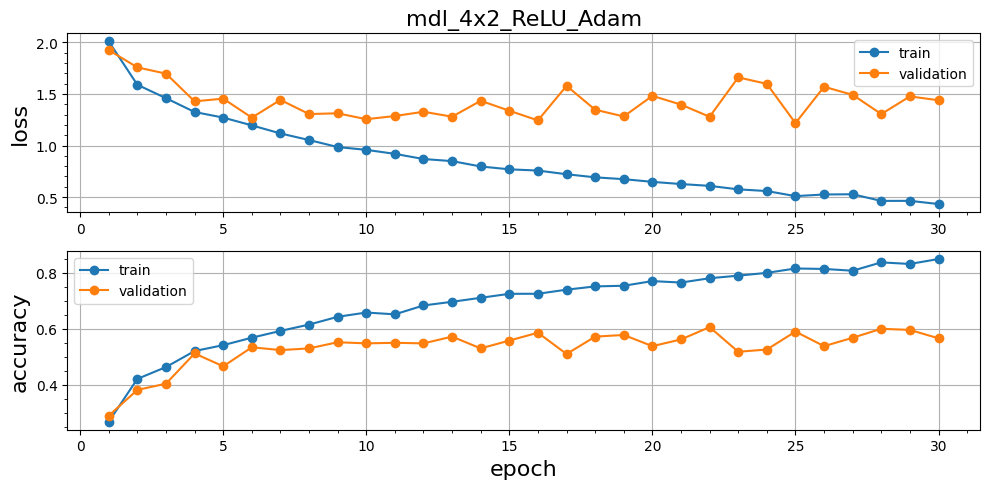
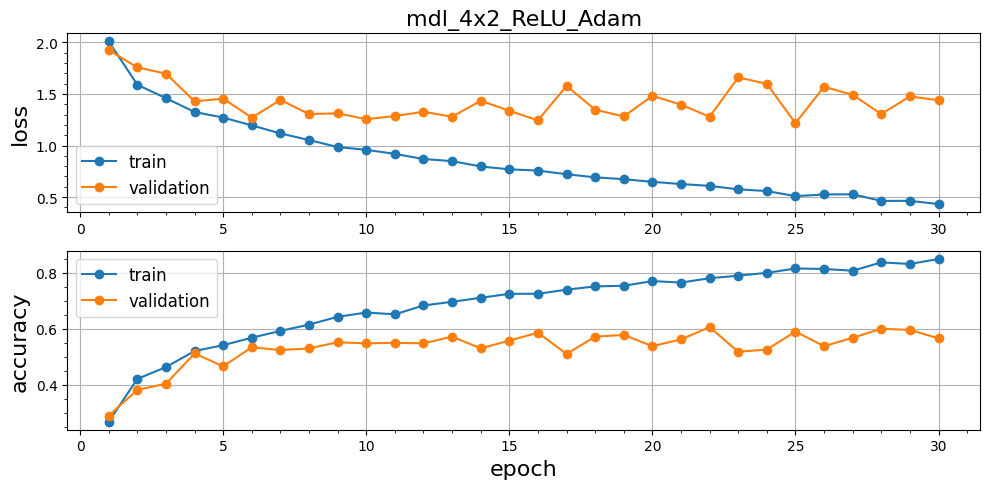
Readme update.

diff --git a/src/train.py b/src/train.py
@@ -76,18 +76,14 @@ class ResNet18Trainer(object):
     def init_model(self):
         """Initialize model and other data for procedure"""
         
-        if self.dataset == "tiny-imagenet-200":
-            # RGB.
-            image_size = [3, 64, 64]
-        else:
-            raise NotImplementedError(f"Dataset not supported: {self.configer.get('dataset', 'name')}")
+        img_size = self.configer.get('dataset', 'img_size')
         
         self.loss = nn.CrossEntropyLoss().to(self.device)
         self.net = customResNet18(
             num_classes = self.n_classes,
             layers_config = self.configer.get("model", "layers_num")*[self.configer.get("model", "block_size")],
             activation = self.configer.get("model", "activation").lower(),
-            in_channels = image_size[0],
+            in_channels = img_size[0],
             layer0_channels = 256 // 2**(self.configer.get("model", "layers_num") - 1)
         )
 
@@ -114,7 +110,7 @@ class ResNet18Trainer(object):
 
             self.train_transforms = transforms.Compose([
                 transforms.Resize((72, 72)),
-                transforms.RandomResizedCrop(64, scale=(0.8, 1.0)),
+                transforms.RandomResizedCrop(img_size[1], scale=(0.8, 1.0)),
                 transforms.RandomHorizontalFlip(p=0.5),
                 transforms.RandomRotation(10),
                 transforms.ColorJitter(brightness=0.2, contrast=0.2, saturation=0.2, hue=0.1),
@@ -123,7 +119,7 @@ class ResNet18Trainer(object):
             ])
 
             self.val_transforms = transforms.Compose([
-                transforms.Resize((64, 64)),
+                transforms.Resize(tuple(img_size[1:])),
                 transforms.ToTensor(),
                 normalize,
             ])

diff --git a/src/models/model_structure.py b/src/models/model_structure.py
@@ -26,6 +26,7 @@ class BasicBlock(nn.Module):
     Args:
         in_channels (int): количество входных каналов.
         out_channels (int): количество выходных каналов.
+        activation (str): функция активации.
         kernel_size (int): размер ядра свертки (должен быть нечётным).
         stride (int): шаг свертки.
     """
@@ -48,7 +49,7 @@ class BasicBlock(nn.Module):
             out_channels,
             kernel_size=kernel_size,
             stride=stride,
-            padding=kernel_size // 2,
+            padding=kernel_size//2,
             bias=False
         )
         self.bn1 = nn.BatchNorm2d(out_channels)
@@ -58,7 +59,7 @@ class BasicBlock(nn.Module):
             out_channels,
             kernel_size=kernel_size,
             stride=1,
-            padding=kernel_size // 2,
+            padding=kernel_size//2,
             bias=False
         )
         self.bn2 = nn.BatchNorm2d(out_channels)

diff --git a/src/main.py b/src/main.py
@@ -101,13 +101,13 @@ if __name__ == "__main__":
     with open(logs_dir / log_file_name, "w") as f:
         json.dump(output_dict, f, indent=4)
         
-    
     img_dir = Path("./readme_img/")
     if not os.path.exists(img_dir):
         os.makedirs(img_dir)
+    img_size = configer.get('dataset', 'img_size')
     model_graph = draw_graph(
         model, 
-        input_size=(1, 3, 64, 64),
+        input_size=(1, *img_size),
         expand_nested=True,
         save_graph=True,
         filename = img_dir / img_dir

diff --git a/README.md b/README.md
@@ -1,31 +1,35 @@
 # Создание и оптимизация ResNet18
-Поэтапная разработка кастомной ResNet18 модели для классификации Tiny ImageNet с анализом влияния различных архитектурных решений на производительность.
+Поэтапная разработка кастомной ResNet18 модели-классификатора с анализом влияния различных архитектурных решений на производительность.
 
 ## Часть 1: Подготовка данных
-Создан датакласс [TinyImageNetDataset.py](src\datasets\TinyImageNetDataset.py), наследующий от `torch.utils.data.Dataset`:
-- метод `__init__`: инициализация путей к данным а аннотациям, загрузка тренировочного и валидационного датасетов по выбранным классам;
-- метод `__len__`: возврат количества примеров в датасете;
-- метод `__getitem__`: загрузка и возврат одного примера (изображение + метка).
+Создан датакласс [TinyImageNetDataset.py](src\datasets\TinyImageNetDataset.py), наследующий от `torch.utils.data.Dataset` следующие методы:
+- `__init__`: инициализация путей к данным и аннотациям, загрузка тренировочного и валидационного датасетов по выбранным классам;
+- `__len__`: возврат количества примеров в датасете;
+- `__getitem__`: загрузка и возврат одного примера (изображение + метка).
 
 ## Часть 2: Базовая архитектура ResNet18
 
-Архитектура модели изначально сделана универсальной.
-[model_structure.py](src\models\model_structure.py)
+В [model_structure.py](src\models\model_structure.py) реализован `class customResNet18` с возможностью инициализации архитектуры модели под следующие входные параметры:
+- `num_classes` - количество классов на выходе; например, `num_classes=10`;
+- `layers_config` - слои модели в формате списка; например, `[2, 2, 2, 2]` - `"layers_num": 4`, `"block_size": 2`;
+- `activation` - функция активации (`ReLU`, `LeakyReLU`, `ELU`, или `GELU`);
+- `in_channels` - количество входных каналов; например, для RGB-картинок `in_channels=3`;
+- `layer0_channels` - количество каналов на входе первого базового слоя.
 
 ### 2.1. Реализация Basic Block
 
-Создан класс `class BasicBlock` в [model_structure.py](src\models\model_structure.py). Реализована инициализация с выбором функции активации в слое `acyivation`.
+В [model_structure.py](src\models\model_structure.py) реализован `class BasicBlock` с выбором функции активации в слое `activation` при инициализации.
 
 ```
 Input →  →  →  →  →  →  →  →  →  →  →  →  →  →  →  →  →  →  →  →  →  →  →  →
   ↓                                                                     
-Conv2d(kernel_size=kernel_size, padding=kernel_size//2, stride=stride)      ↓
+Conv2d(kernel_size=kernel_size, stride=stride, padding=kernel_size//2)      ↓
   ↓                                                                     
 BatchNorm2d                                                                 ↓
   ↓                                                                     
 activation (ReLU, LeakyReLU, ELU, or GELU)                                  ↓
   ↓
-Conv2d(kernel_size=kernel_size, padding=kernel_size//2, stride=1)           ↓
+Conv2d(kernel_size=kernel_size, stride=1, padding=kernel_size//2)           ↓
   ↓
 BatchNorm2d                                                                 ↓
   ↓
@@ -35,7 +39,9 @@ activation (ReLU, LeakyReLU, ELU, or GELU)
   ↓
 Output
 ```
-### 2.2. Архитектура базовая: `[2, 2, 2, 2]`
+### 2.2. Реализация ResNet18
+
+#### Архитектура базовая (baseline): `[2, 2, 2, 2]`
 - `"layers_num": 4`
 - `"block_size": 2`
 
@@ -56,8 +62,8 @@ Output
 | Output                                             | `(B, 10)`         |
 
 ### 2.3. Ограничения для базовой модели
-- Общее количество параметров - не более 5 миллионов: **2802538**.
-- Максимальное количество каналов - до 512: **256**.
+- Общее количество параметров - не более 5 миллионов: ✅ **2802538**.
+- Максимальное количество каналов - до 512: ✅ **256**.
 
 ### 2.4. Скрипт обучения
 
@@ -78,7 +84,7 @@ python src/main.py --hypes src\hyperparameters\config.json
 
 #### 2.5: Визуализация базовых результатов
 
-Визуализация результатов обучения выполнена в [main_notebook.ipynb](main_notebook.ipynb).
+Графики построены в [main_notebook.ipynb](main_notebook.ipynb).
 
 <p align="center" width="100%">
   <img src="./readme_img/loss_acc_4x2_ReLU_Adam.png"
